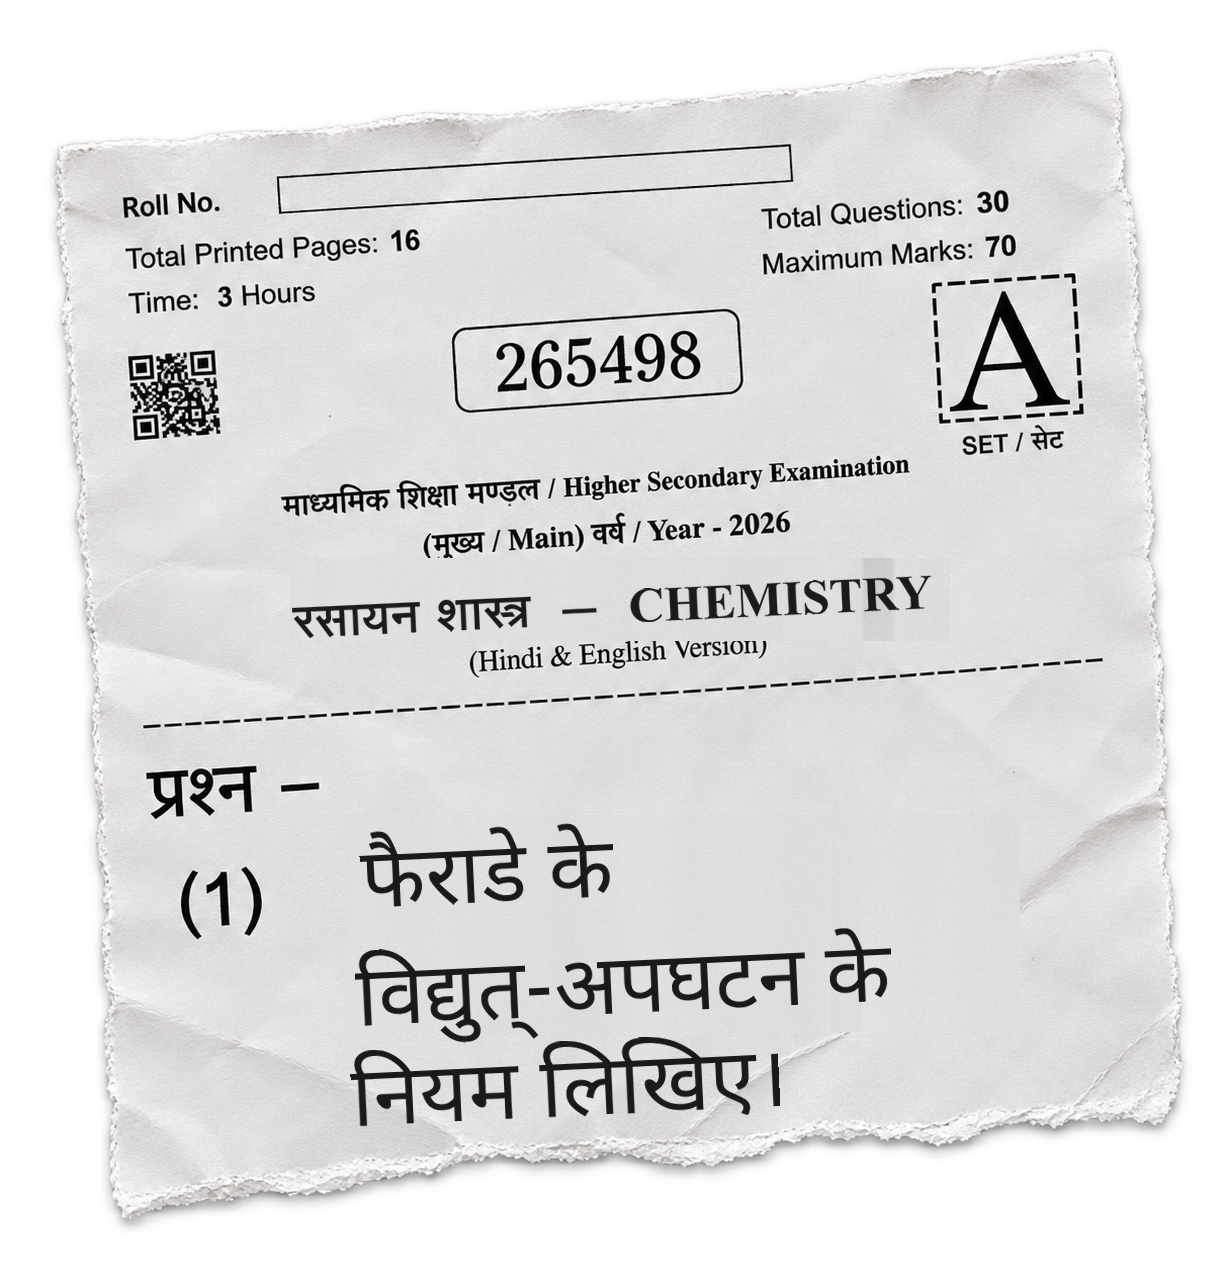
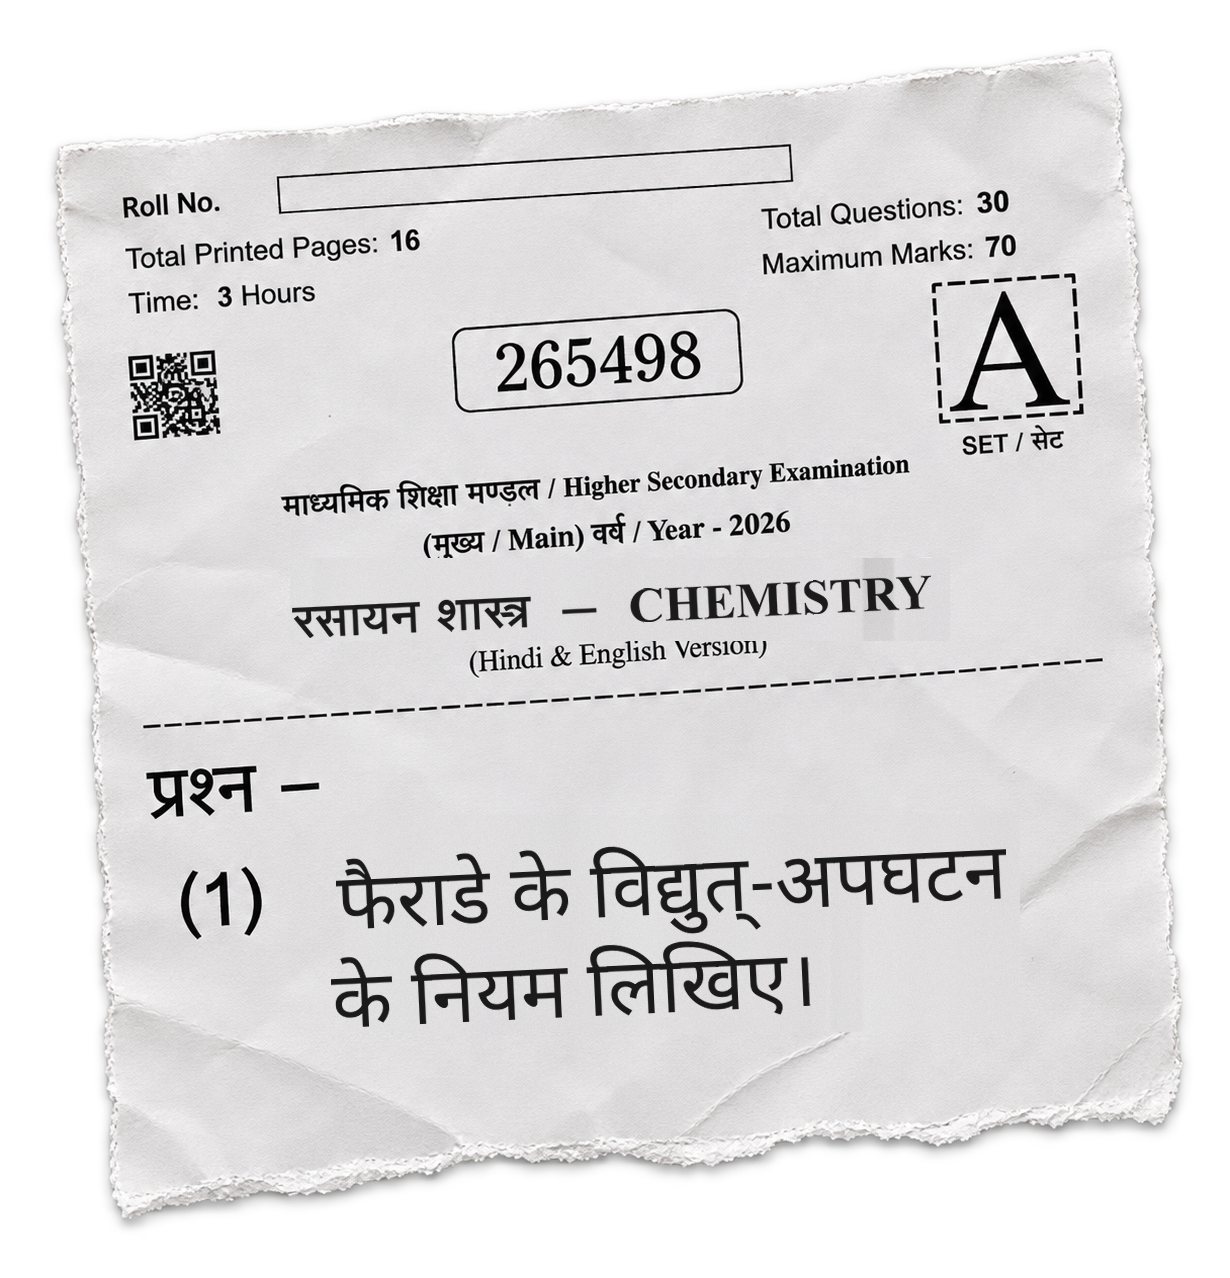
feat: rebuild corrosion, Faraday and Daniell on the new design
The five new topics were built on the v2 card and the caption-tracked screen
text; these three predated it and were still on the sticky notepaper. All
fourteen parts now match.

  संक्षारण      1 part
  फैराडे        2 parts
  डेनियल सेल    2 parts

Their hand-built scenes are kept rather than moved onto the beat engine. Those
scenes carry richer graphics than a generic block can — the electrolysis rig,
the Daniell cell with electrons crossing the wire, the rusting and galvanising
sequences — and they were already cue-timed line by line against their own
transcripts, so their screen text does not drift the way the generated beats
did. Only the question card changed.

Daniell's answer page gains the drawn cell figure: "डेनियल सेल का उदाहरण देकर
समझाइए" expects it. Corrosion and Faraday name no figure, so they keep
text-only pages.

All fourteen videos delivered to ~/Desktop/Arivihan PYQ videos, one folder per
topic with its parts, answer card and question.

Changed region(s): [[0.2472, 0.6408, 0.8341, 0.885]]

diff --git a/projects/daniell-cell/manim_code/daniell.py b/projects/daniell-cell/manim_code/daniell.py
@@ -357,9 +357,13 @@ class DaniellPart1(_Base):
         # geometry measured off the still in src/question_card.py, with the
         # question wrapped and shrunk to the paper's writable area so it cannot
         # leak off the page.
+        # v2 card: the question is PRINTED on the torn exam sheet, so nothing
+        # is typeset onto it here. The frame around it is unchanged.
         self.question_card("विद्युत्-रासायनिक सेल एवं उसकी क्रियाविधि "
                            "डेनियल सेल का उदाहरण देकर समझाइए।",
-                           "डेनियल सेल", "2018 और 2023")
+                           "डेनियल सेल", "2018 और 2023",
+                           sheet=_Path(ASSET_ROOT) / "projects" / "daniell-cell"
+                           / "assets" / "design" / "question_sheet.png")
         self.hold()
 
         # ---- cue 1: the question ---------------------------------------- #

diff --git a/projects/sanksharan/manim_code/sanksharan.py b/projects/sanksharan/manim_code/sanksharan.py
@@ -380,9 +380,12 @@ class Sanksharan(ThemedScene):
         # shrinks to the paper's writable area, so a longer question than this
         # one still cannot leak off the page.
         self.cue(0, caption=False)
+        # v2 card: the question is PRINTED on the torn exam sheet.
         self.question_card("संक्षारण किसे कहते हैं? इसे प्रभावित करने वाले तीन "
                            "कारकों को लिखकर इससे बचाव के कोई तीन उपाय लिखिए।",
-                           "संक्षारण", "2025")
+                           "संक्षारण", "2025",
+                           sheet=_Path(ASSET_ROOT) / "projects" / "sanksharan"
+                           / "assets" / "design" / "question_sheet.png")
         # No explicit fade-out: cue(1) clears the stage, the same way the other
         # PYQ scenes leave their question card.
         self.hold()
